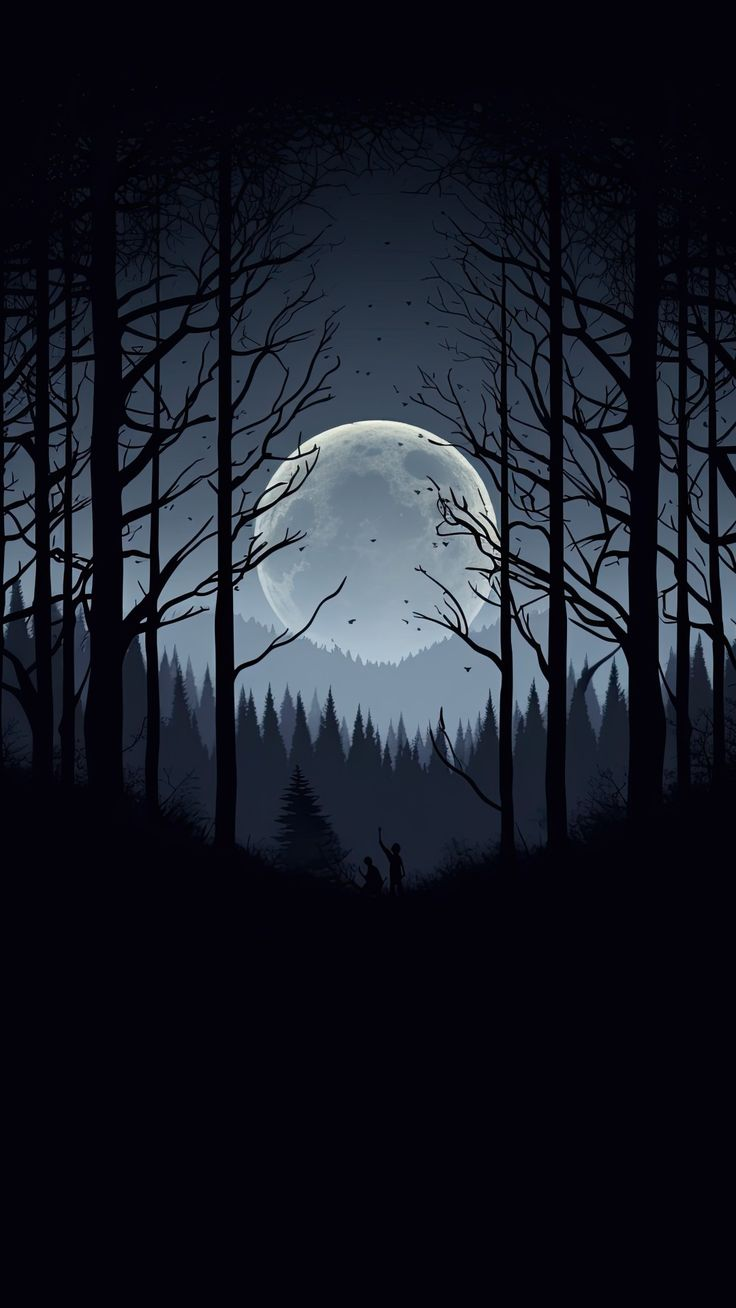
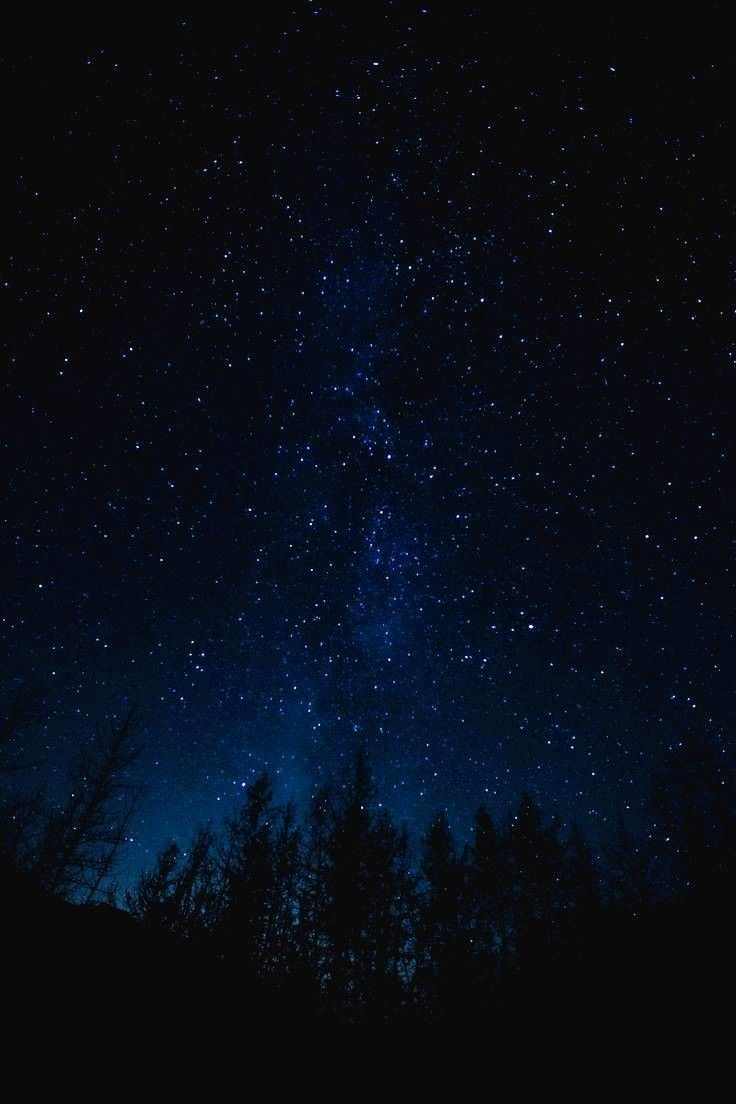
secondeStep

diff --git a/index.html b/index.html
@@ -46,7 +46,7 @@
             <div class="container px-4 px-lg-5 d-flex h-100 align-items-center justify-content-center">
                 <div class="d-flex justify-content-center">
                     <div class="text-center">
-                        <h1 class="mx-auto my-0 text-uppercase h1-anim animate">VSUET</h1>
+                        <h1 class="mx-auto my-0 text-uppercase h1-anim animate">СтудСовет</h1>
                         <h2 class="text-white-50 mx-auto mt-2 mb-5">"Eruditio aspĕra optĭma est."
                         </h2>
                         <h2 class="text-white-50 mx-auto mt-2 mb-5">
@@ -72,100 +72,113 @@
                         </p>
                     </div>
                 </div>
-                <img class="img-fluid" src="assets\img\общага-лого.png" alt="..." />
+                <img class="img-fluid" id="logo" src="assets\img\общага-лого.png" alt="..." />
             </div>
         </section>
         <!-- Projects-->
         <section class="projects-section bg-light" id="projects">
-            <div class="container px-4 px-lg-5">
-                <!-- Project One Row-->
-                <div class="row gx-0 mb-5 mb-lg-0 justify-content-center">
-                    <div class="col-lg-6"><img class="img-fluid img-misty animate no-hide"
-                            src="assets\img\прописька.jpg" alt="..." />
-                    </div>
-                    <div class="col-lg-6">
-                        <div class="bg-black text-center h-100 project">
-                            <div class="d-flex h-100">
-                                <div class="project-text w-100 my-auto text-center text-lg-left">
-                                    <div class="misty animate">
-                                        <h4 class="text-white ">Прописка</h4>
-                                        <p class="mb-0 text-white-50 ">Прописка" — это традиционное ритуальное
-                                            мероприятие для студентов-первокурсников, заселяющихся в общежитие,
-                                            представляющее собой церемонию символического принятия новичков в сообщество
-                                            жителей студенческого городка.</p>
-                                    </div>
+            <div id="anyway">
+                <div class="container px-4 px-lg-5">
+                    <!-- Project One Row-->
+                    <div class="row gx-0 mb-5 mb-lg-0 justify-content-center">
+                        <div class="col-lg-6"><img class="img-fluid img-misty animate no-hide"
+                                src="assets\img\прописька.jpg" alt="..." />
+                        </div>
+                        <div class="col-lg-6">
+                            <div class="bg-black text-center h-100 project">
+                                <div class="d-flex h-100">
+                                    <div class="project-text w-100 my-auto text-center text-lg-left">
+                                        <div class="misty animate">
+                                            <h4 class="text-white ">Прописка</h4>
+                                            <p class="mb-0 text-white-50 ">Прописка" — это традиционное ритуальное
+                                                мероприятие для студентов-первокурсников, заселяющихся в общежитие,
+                                                представляющее собой церемонию символического принятия новичков в
+                                                сообщество
+                                                жителей студенческого городка.</p>
+                                        </div>
 
-                                </div>
-                            </div>
-                        </div>
-                    </div>
-                </div>
-                <!-- Project Two Row-->
-                <div class="row gx-0 justify-content-center">
-                    <div class="col-lg-6"><img class="img-fluid img-mountains animate no-hide"
-                            src="assets\img\настолки.jpg" alt="..." /></div>
-                    <div class="col-lg-6 order-lg-first">
-                        <div class="bg-black text-center h-100 project">
-                            <div class="d-flex h-100">
-                                <div class="project-text w-100 my-auto text-center text-lg-right">
-                                    <div class="mountains animate">
-                                        <h4 class="text-white">Настольные игры</h4>
-                                        <p class="mb-0 text-white-50">"Вечер мафии" — это развлекательное мероприятие в
-                                            формате ролевой игры, где участники случайным образом получают роли
-                                            («мафия», «мирные жители» и др.). В процессе игры «мафия» тайно устраняет
-                                            игроков, а остальные участники пытаются выявить предателей в ходе обсуждений
-                                            и голосований.</p>
                                     </div>
                                 </div>
                             </div>
                         </div>
                     </div>
-                </div>
-                <!-- Featured Project Row-->
-                <div class="row gx-0 mb-4 mb-lg-5 align-items-center">
-                    <div class="col-xl-8 col-lg-7"><img class="img-fluid mb-3 mb-lg-0 image-animation animate no-hide"
-                            src="assets\img\4.jpeg" alt="..." /></div>
-                    <div class="col-xl-4 col-lg-5">
-                        <div class="featured-text text-center text-lg-left">
-                            <h4>Общежитие №4</h4>
-                            <p class="text-black-50 mb-0">
+                    <!-- Project Two Row-->
+                    <div class="row gx-0 justify-content-center">
+                        <div class="col-lg-6"><img class="img-fluid img-mountains animate no-hide"
+                                src="assets\img\настолки.jpg" alt="..." /></div>
+                        <div class="col-lg-6 order-lg-first">
+                            <div class="bg-black text-center h-100 project">
+                                <div class="d-flex h-100">
+                                    <div class="project-text w-100 my-auto text-center text-lg-right">
+                                        <div class="mountains animate">
+                                            <h4 class="text-white">Настольные игры</h4>
+                                            <p class="mb-0 text-white-50">"Вечер мафии" — это развлекательное
+                                                мероприятие в
+                                                формате ролевой игры, где участники случайным образом получают роли
+                                                («мафия», «мирные жители» и др.). В процессе игры «мафия» тайно
+                                                устраняет
+                                                игроков, а остальные участники пытаются выявить предателей в ходе
+                                                обсуждений
+                                                и голосований.</p>
+                                        </div>
+                                    </div>
+                                </div>
+                            </div>
+                        </div>
+                    </div>
+                    <!-- Featured Project Row-->
+                    <div class="row gx-0 mb-4 mb-lg-5 align-items-center">
+                        <div class="col-xl-8 col-lg-7"><img
+                                class="img-fluid mb-3 mb-lg-0 image-animation animate no-hide dormitory"
+                                src="assets\img\4.jpeg" alt="..." /></div>
+                        <div class="col-xl-4 col-lg-5">
+                            <div class="featured-text text-center text-lg-left">
+                                <h4>Общежитие №4</h4>
+                                <p class="text-black-50 mb-0">
+                                    Председатель СтудСовета: </p>
+                                <p class="text-black-50 mb-0">
+                                    Александр Климанов
                                 </p>
-                            <p class="text-black-50 mb-0">
-                                
-                            </p>
-                            <p class="text-black-50 mb-0">
-                            </p>
-                            <a class="btn btn-primary baton" href="https://vk.com/studgorodok_vsuet?from=groups">Узнать больше</a>
+                                <p class="text-black-50 mb-0">
+                                </p>
+                                <a class="btn btn-primary baton"
+                                    href="https://vk.com/studgorodok_vsuet?from=groups">Узнать больше</a>
+                            </div>
                         </div>
                     </div>
-                </div>
-                <div class="row gx-0 mb-4 mb-lg-5 align-items-center">
-                    <div class="col-xl-8 col-lg-7"><img class="img-fluid mb-3 mb-lg-0 image-animation animate no-hide"
-                            src="assets\img\5.jpg" alt="..." /></div>
-                    <div class="col-xl-4 col-lg-5">
-                        <div class="featured-text text-center text-lg-left">
-                            <h4>Общежитие №5</h4>
-                            <p class="text-black-50 mb-0"></p>
-                            <p class="text-black-50 mb-0"></p>
-                            <p class="text-black-50 mb-0"></p>
-                            <a class="btn btn-primary baton" href="https://vk.com/studgorodok_vsuet?from=groups">Узнать больше</a>
+                    <div class="row gx-0 mb-4 mb-lg-5 align-items-center">
+                        <div class="col-xl-8 col-lg-7"><img
+                                class="img-fluid mb-3 mb-lg-0 image-animation animate no-hide dormitory"
+                                src="assets\img\5.jpg" alt="..." /></div>
+                        <div class="col-xl-4 col-lg-5">
+                            <div class="featured-text text-center text-lg-left">
+                                <h4>Общежитие №5</h4>
+                                <p class="text-black-50 mb-0">Председатель СтудСовета:</p>
+                                <p class="text-black-50 mb-0">Назар Осинин</p>
+                                <p class="text-black-50 mb-0"></p>
+                                <a class="btn btn-primary baton"
+                                    href="https://vk.com/studgorodok_vsuet?from=groups">Узнать больше</a>
+                            </div>
                         </div>
                     </div>
-                </div>
-                <div class="row gx-0 mb-4 mb-lg-5 align-items-center">
-                    <div class="col-xl-8 col-lg-7"><img class="img-fluid mb-3 mb-lg-0 image-animation animate no-hide"
-                            src="assets\img\6.jpeg" alt="..." /></div>
-                    <div class="col-xl-4 col-lg-5">
-                        <div class="featured-text text-center text-lg-left">
-                            <h4>Общежитие №6</h4>
-                            <p class="text-black-50 mb-0"></p>
-                            <p class="text-black-50 mb-0"></p>
-                            <p class="text-black-50 mb-0"></p>
-                            <a class="btn btn-primary baton" href="https://vk.com/studgorodok_vsuet?from=groups">Узнать больше</a>
+                    <div class="row gx-0 mb-4 mb-lg-5 align-items-center">
+                        <div class="col-xl-8 col-lg-7"><img
+                                class="img-fluid mb-3 mb-lg-0 image-animation animate no-hide dormitory"
+                                src="assets\img\6.jpeg" alt="..." /></div>
+                        <div class="col-xl-4 col-lg-5">
+                            <div class="featured-text text-center text-lg-left">
+                                <h4>Общежитие №6</h4>
+                                <p class="text-black-50 mb-0">Председатель СтудСовета:</p>
+                                <p class="text-black-50 mb-0">Александра Нусс</p>
+                                <p class="text-black-50 mb-0"></p>
+                                <a class="btn btn-primary baton"
+                                    href="https://vk.com/studgorodok_vsuet?from=groups">Узнать больше</a>
+                            </div>
                         </div>
                     </div>
                 </div>
             </div>
+
 
         </section>
         <!-- Contact-->
@@ -175,30 +188,33 @@
                     <div class="col-md-4 mb-3 mb-md-0">
                         <div class="card py-4 h-100">
                             <div class="card-body text-center">
-                                <i class="fas fa-map-marked-alt text-primary mb-2"></i>
-                                <h4 class="text-uppercase m-0">Адрес</h4>
+                                <!-- <i class="fas fa-map-marked-alt text-primary mb-2"></i> -->
+                                <h4 class="text-uppercase m-0">Назар Осинин</h4>
                                 <hr class="my-4 mx-auto" />
-                                <div class="small text-black-50">просп. Революции, 19, Воронеж</div>
+                                <div class="small text-black-50"><a
+                                        href="https://vk.com/nazar_osinin">https://vk.com/nazar_osinin</a></div>
                             </div>
                         </div>
                     </div>
                     <div class="col-md-4 mb-3 mb-md-0">
                         <div class="card py-4 h-100">
                             <div class="card-body text-center">
-                                <i class="fas fa-envelope text-primary mb-2"></i>
-                                <h4 class="text-uppercase m-0">Email</h4>
+                                <!-- <i class="fas fa-envelope text-primary mb-2"></i> -->
+                                <h4 class="text-uppercase m-0">Александр Климанов</h4>
                                 <hr class="my-4 mx-auto" />
-                                <div class="small text-black-50"><a href="#!">sitnikovmihail160@gmail.com</a></div>
+                                <div class="small text-black-50"><a
+                                        href="https://vk.com/alexander0611">https://vk.com/alexander0611</a></div>
                             </div>
                         </div>
                     </div>
                     <div class="col-md-4 mb-3 mb-md-0">
                         <div class="card py-4 h-100">
                             <div class="card-body text-center">
-                                <i class="fas fa-mobile-alt text-primary mb-2"></i>
-                                <h4 class="text-uppercase m-0">Телефон</h4>
+                                <!-- <i class="fas fa-mobile-alt text-primary mb-2"></i> -->
+                                <h4 class="text-uppercase m-0">Александра Нусс</h4>
                                 <hr class="my-4 mx-auto" />
-                                <div class="small text-black-50">+7 (900) 953-72-76</div>
+                                <div class="small text-black-50"><a
+                                        href="https://vk.com/nussalex">https://vk.com/nussalex</a></div>
                             </div>
                         </div>
                     </div>
@@ -210,20 +226,6 @@
                 </div>
             </div>
         </section>
-    </div>
-    <div id="popup" class="popup">
-        <div class="popup_body">
-            <div class="popup_content">
-                <a href="" class="popup_close close-modal">X</a>
-                <div class="popu_title">Модальное окно</div>
-                <div class="popup_text">
-                    Lorem ipsum dolor sit amet consectetur adipisicing elit. Nemo optio ipsum facilis! In vero
-                    consequatur modi, accusamus nihil eveniet voluptas libero, maxime ut magnam iure distinctio fuga cum
-                    inventore corporis eos. Suscipit neque eius perspiciatis unde itaque? Error ipsam totam aliquid nam
-                    quos fugiat earum fugit doloremque. Eius, delectus soluta.
-                </div>
-            </div>
-        </div>
     </div>
     <!-- Footer-->
     <footer class="footer bg-black small text-center text-white-50">

diff --git a/css/styles.css b/css/styles.css
@@ -10,6 +10,7 @@
  * Copyright 2011-2022 Twitter, Inc.
  * Licensed under MIT (https://github.com/twbs/bootstrap/blob/main/LICENSE)
  */
+
 :root {
   --bs-blue: #0d6efd;
   --bs-indigo: #6610f2;
@@ -88,6 +89,7 @@
 *::after {
   box-sizing: border-box;
 }
+
 
 @media (prefers-reduced-motion: no-preference) {
   :root {
@@ -602,9 +604,15 @@ progress {
 }
 
 .img-fluid {
-  margin-top: 10px;
+  /* margin-top: 10px */
   max-width: 100%;
   height: auto;
+}
+
+#logo{
+  margin-top: 10px;
+  width: 500px;
+  height: 500px;
 }
 
 .img-thumbnail {
@@ -614,6 +622,11 @@ progress {
   border-radius: 0.375rem;
   max-width: 100%;
   height: auto;
+}
+
+.dormitory{
+  margin-top: 30px;
+  padding-right: 5px;
 }
 
 .figure {
@@ -11119,6 +11132,7 @@ body {
 .about-section p {
   margin-bottom: 5rem;
 }
+
 
 .projects-section {
   padding: 10rem 0;
